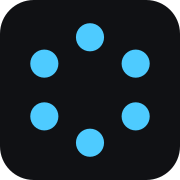
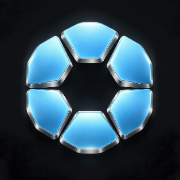
Lead Kithmoot marketing and app identity with sculptural artwork

diff --git a/site/index.html b/site/index.html
@@ -7,7 +7,6 @@
     <meta name="description" content="An open workspace with rooms, threads, private conversations, files, calls and agents, over Nostr and encrypted end to end. No account to register and no company holding the guest list. Your phone and laptop join as one person." />
     <meta name="theme-color" content="#faf8f3" media="(prefers-color-scheme: light)" />
     <meta name="theme-color" content="#101114" media="(prefers-color-scheme: dark)" />
-    <link rel="icon" href="favicon.svg" type="image/svg+xml" />
     <link rel="icon" href="favicon-32.png" type="image/png" sizes="32x32" />
     <link rel="apple-touch-icon" href="apple-touch-icon.png" />
     <link rel="canonical" href="https://kithmoot.forgesworn.dev/" />
@@ -15,14 +14,15 @@
     <meta property="og:title" content="KithMoot: a workspace nobody owns" />
     <meta property="og:description" content="Rooms, threads, private conversations, files, calls and agents for your people, encrypted end to end. Your phone and laptop join as one person. No account needed to visit." />
     <meta property="og:url" content="https://kithmoot.forgesworn.dev/" />
-    <meta property="og:image" content="https://kithmoot.forgesworn.dev/pwa-512x512.png" />
+    <meta property="og:image" content="https://kithmoot.forgesworn.dev/img/kithmoot-artwork.png" />
+    <meta property="og:image:alt" content="KithMoot's six blue pieces forming an assembly of equals." />
     <meta name="twitter:card" content="summary" />
     <link rel="stylesheet" href="style.css" />
   </head>
   <body>
     <a class="skip" href="#main">Skip to content</a>
     <header class="site-header wrap">
-      <a class="brand" href="./" aria-label="KithMoot home"><img src="favicon.svg" width="36" height="36" alt="" />KithMoot</a>
+      <a class="brand" href="./" aria-label="KithMoot home"><img src="pwa-192x192.png" width="36" height="36" alt="" />KithMoot</a>
       <nav aria-label="Main navigation">
         <a href="#what">Features</a>
         <a href="#privacy">Privacy</a>
@@ -41,11 +41,7 @@
           </div>
           <p class="under">Free and open source. No account, nothing to install: an invitation is all anyone needs.<br />Already on Nostr? <a href="j/?signin=nostr">Sign in with Nostr</a> and your rooms follow you.</p>
         </div>
-        <figure class="hero-preview">
-          <div class="preview-label"><span class="status-dot" aria-hidden="true"></span> A room in KithMoot</div>
-          <img src="img/web-conversation.png" width="390" height="880" alt="The web app in a room called The workshop: Rowan asks for a check on the venue line of the budget, Ada's correction sits under it in a thread, marked edited and given a thumbs up, Scribe, labelled as an agent, notes the change for the minutes, and the composer waits beneath." fetchpriority="high" />
-          <figcaption>The web app, with an example conversation.</figcaption>
-        </figure>
+        <div class="hero-art"><picture><source srcset="img/kithmoot-artwork.webp" type="image/webp" /><img src="img/kithmoot-artwork.png" width="1254" height="1254" alt="Six blue pieces forming KithMoot's assembly mark." fetchpriority="high" /></picture></div>
       </section>
 
       <div class="proof-strip wrap" aria-label="About KithMoot">
@@ -55,10 +51,17 @@
       <p class="audience wrap">A team of five and the agents that work for them. A family. A community group. A project and its contributors. An agency and the clients it would rather not put on somebody else's platform. Anyone you would send a link to.</p>
 
       <section id="what" class="section wrap" aria-labelledby="features-title">
+        <div class="product-overview">
         <div class="section-intro">
           <p class="eyebrow">Not a meeting link</p>
           <h2 id="features-title">A workspace you come back to.</h2>
           <p>The conversation, the files and the people stay put between calls. Answer in threads, fix what you said, take a message back, and pick up where you left off from whichever device is in your hand.</p>
+        </div>
+        <figure class="hero-preview">
+          <div class="preview-label"><span class="status-dot" aria-hidden="true"></span> A room in KithMoot</div>
+          <img src="img/web-conversation.png" width="390" height="880" alt="The web app with a threaded example conversation, an agent and a message composer." loading="lazy" />
+          <figcaption>The web app, with an example conversation.</figcaption>
+        </figure>
         </div>
         <div class="feature-grid">
           <article><span class="feature-number" aria-hidden="true">01</span><h3>Rooms that stay open</h3><p>A new room is a group by default. It can sit empty for days and still let the next person in from the link. Come back to the messages, the files and the channels inside it.</p></article>
@@ -118,7 +121,7 @@
       <section class="closing wrap" aria-labelledby="closing-title"><h2 id="closing-title">Bring your people into a workspace.</h2><a class="button primary" href="j/">Start a room <span aria-hidden="true">↗</span></a></section>
     </main>
     <footer class="wrap">
-      <a class="brand" href="./"><img src="favicon.svg" width="30" height="30" alt="" />KithMoot</a>
+      <a class="brand" href="./"><img src="pwa-192x192.png" width="30" height="30" alt="" />KithMoot</a>
       <p>Made by <a href="https://forgesworn.dev/">Forgesworn</a>. Open source under the MIT licence.</p>
       <nav aria-label="Source and support"><a href="https://github.com/forgesworn/kithmoot">Source code</a><a href="https://github.com/forgesworn/kithmoot/issues">Report an issue</a><a href="#privacy">Privacy</a></nav>
     </footer>

diff --git a/site/style.css b/site/style.css
@@ -35,6 +35,11 @@ nav a { display: inline-flex; align-items: center; min-height: 44px; font-size: 
 nav a:hover { text-decoration: underline; }
 nav .nav-open { color: var(--text); font-weight: 700; }
 .hero { display: grid; grid-template-columns: 1.2fr 1fr; align-items: center; gap: clamp(2rem, 6vw, 6rem); padding-block: 4rem; }
+.hero-art { overflow: hidden; border-radius: 24px; background: #101114; }
+.hero-art img { display: block; width: 100%; height: auto; }
+.brand img { border-radius: 22%; }
+.product-overview { display: grid; grid-template-columns: 1fr minmax(240px, 320px); gap: 3rem; align-items: center; margin-bottom: 3rem; }
+@media (max-width: 650px) { .product-overview { grid-template-columns: 1fr; gap: 1.5rem; } }
 .eyebrow { color: var(--accent); font-size: .8rem; font-weight: 750; text-transform: uppercase; letter-spacing: .1em; margin-bottom: 1.3rem; }
 .lead { color: var(--muted); font-size: clamp(1.15rem, 1.6vw, 1.3rem); max-width: 39ch; }
 .actions { display: flex; flex-wrap: wrap; gap: .7rem; margin: 2rem 0 1.3rem; }
@@ -113,3 +118,16 @@ footer nav { gap: 1.2rem; }
 }
 @media (prefers-reduced-motion: reduce) { *, *::before, *::after { scroll-behavior: auto !important; } }
 @media (forced-colors: active) { .button, .hero-preview, .platform { border: 1px solid ButtonText; } }
+
+/* Keep the approved artwork in the first phone viewport, beside the headline
+   and primary action rather than below several paragraphs of introduction. */
+@media (max-width: 650px) {
+  .hero { display: flex; flex-direction: column; gap: 1.2rem; align-items: stretch; }
+  .hero-copy { display: contents; }
+  .hero .eyebrow { order: 0; margin: 0; }
+  .hero h1 { order: 1; margin: 0; }
+  .hero-art { order: 2; width: min(100%, 300px); align-self: center; }
+  .hero .actions { order: 3; margin: 0; }
+  .hero .lead { order: 4; margin: 0; }
+  .hero .under { order: 5; margin: 0; }
+}

diff --git a/app/index.html b/app/index.html
@@ -7,7 +7,6 @@
     <meta name="theme-color" content="#101114" media="(prefers-color-scheme: dark)" />
     <meta name="referrer" content="no-referrer" />
     <meta name="description" content="A workspace nobody owns." />
-    <link rel="icon" href="/favicon.svg" type="image/svg+xml" />
     <link rel="icon" href="/favicon-32.png" type="image/png" sizes="32x32" />
     <link rel="apple-touch-icon" href="/apple-touch-icon.png" />
     <title>KithMoot</title>
@@ -19,7 +18,7 @@
       <button id="updateApp" type="button">Update now</button>
     </aside>
     <header>
-      <h1>KithMoot</h1>
+      <h1 class="app-brand"><img src="/pwa-192x192.png" width="44" height="44" alt="" />KithMoot</h1>
       <p class="tagline">A workspace nobody owns.</p>
     </header>
 
@@ -40,7 +39,7 @@
     <main>
       <noscript><p class="note">KithMoot needs JavaScript to open encrypted rooms. Enable it for this site, then reload.</p></noscript>
       <aside id="workspaceNav" aria-label="Projects and rooms" hidden>
-        <div class="workspaceBrand">KithMoot</div>
+        <div class="workspaceBrand"><img src="/pwa-192x192.png" width="32" height="32" alt="" />KithMoot</div>
         <button id="workspaceSwitch" type="button" aria-haspopup="dialog" aria-controls="roomSwitcher">Find a room <kbd>⌘ / Ctrl K</kbd></button>
         <label class="sr-only" for="workspaceQuery">Filter projects and rooms</label>
         <input id="workspaceQuery" type="search" placeholder="Filter projects and rooms" autocomplete="off" />

diff --git a/app/src/style.css b/app/src/style.css
@@ -152,6 +152,9 @@ h1 {
   margin-bottom: 0;
 }
 
+.app-brand, .workspaceBrand { display: flex; align-items: center; gap: .6rem; }
+.app-brand img, .workspaceBrand img { flex: 0 0 auto; border-radius: 22%; }
+
 h2 {
   font-size: 1rem;
   text-transform: uppercase;

diff --git a/docs/product-goals.md b/docs/product-goals.md
@@ -1,0 +1,163 @@
+# Browser and home messaging goals
+
+Recorded 2026-09-09. These are accepted product goals; all remain open.
+Individual foundations already exist, but none of the complete journeys below
+is declared finished by this document.
+
+## The need
+
+A person wants to use messaging from their phone's browser, keep the supporting
+services and data on a computer at home, and avoid installing a collection of
+messaging apps. They may also need to keep conversations with people already
+using WhatsApp, Signal or Telegram.
+
+KithMoot should serve this need through a usable browser experience and optional
+infrastructure the person owns. A Windows desktop inside a browser must not be
+necessary for native KithMoot conversations. Access to existing networks is a
+separate goal: inviting someone to KithMoot does not satisfy it.
+
+## G1 — Everyday messaging from a phone browser
+
+Complete the ordinary messaging journey without requiring a native KithMoot
+app, a phone number, a paid account or a desktop computer.
+
+Acceptance:
+
+- On physical iPhone and Android devices, open an invitation, establish a
+  recoverable identity, send and receive direct and group messages, share and
+  retrieve encrypted files, and make and answer voice/video calls.
+- Reopen after browser suspension, a device restart and a Wi-Fi/mobile-data
+  change without losing membership or acknowledged messages. Pending and
+  failed sends remain visible and retry without duplicate messages.
+- Recover on a replacement device using an explicitly saved recovery method;
+  explain what cannot be recovered when the person has not saved one.
+- Document any browser permission or home-screen installation requirement per
+  feature. A required external signer app must not be hidden inside a claim
+  that no native app is needed.
+
+## G2 — Notifications while the phone is in a pocket
+
+Deliver useful message and incoming-call alerts when the conversation is not
+open, with explicit consent and control over what a lock screen reveals.
+
+Acceptance:
+
+- Demonstrate delivery on physical iOS and Android devices while locked and
+  with the app closed, recording the browser/OS versions, installation mode,
+  latency and any platform-imposed limits separately.
+- Opening a message alert reaches the correct conversation and catches up;
+  answering a supported call alert joins the intended call. Expired calls
+  become missed calls rather than invitations to a dead session.
+- Exercise denied/revoked permission, expired subscriptions, offline delivery,
+  duplicate alerts, mute settings and notification-host replacement.
+- Keep message contents and room keys out of push infrastructure. Disclose
+  remaining metadata and any browser/OS push-provider dependency. An owned
+  nudger alone is not proof of independence from platform push services.
+
+This extends the existing M5 optional nudger direction. Open-tab notifications
+or a Nostr nudge alone do not close this goal.
+
+## G3 — Durable history and useful search
+
+Let a person find and recover their conversations beyond the current
+30-day/500-message client window, using an optional encrypted archive.
+
+Acceptance:
+
+- Recover and search a conversation older than 90 days containing more than
+  500 messages on a fresh browser, including replies and file references.
+- Verify archive data before use and enforce membership/epoch access rules;
+  a storage host must not receive plaintext messages or room keys.
+- Restore after loss of an archive node from an independently held copy,
+  retrieve referenced file bytes, and identify incomplete history honestly.
+- Provide understandable retention, export, recovery and local cache controls;
+  distinguish local deletion from deletion of copies held by other parties.
+
+This extends M3. Bothy is the preferred optional archive host; a Bothy mailbox
+with bounded retention is not by itself a durable KithMoot archive.
+
+## G4 — An integrated home messaging setup
+
+Offer a documented setup that brings KithMoot, Bothy and Wildbloom storage
+together on hardware the person controls. Include an Umbrel installation path
+alongside a standalone Linux path, with explicit supported hardware and versions.
+
+Acceptance:
+
+- From a clean supported machine, install, pair a phone, create a conversation,
+  store an encrypted attachment on owned storage and retrieve it from another
+  member's device. Show which services and copies are actually in use.
+- Repeat away from home over mobile data, with no manual router changes on the
+  default supported path. Record any public relay, reachability, HTTPS or push
+  dependency rather than describing the deployment as entirely local.
+- Demonstrate restart, upgrade, rollback, backup and restoration on a replacement
+  host. Archive and notification integration must meet G2 and G3, not merely
+  start their processes successfully.
+- Replace each configured service without changing the person's identity or
+  losing access to recoverable conversations. Hosted and independently operated
+  alternatives remain usable; Bothy is never mandatory for joining a room.
+
+Wildbloom supplies encrypted file delivery and owned Blossom storage; Bothy
+supplies the personal shelter and planned archive/nudger integration. This is
+an integration goal, not a claim that the complete appliance exists today.
+
+## G5 — Existing conversations from one browser surface
+
+Enable a person to retain conversations with WhatsApp, Signal and Telegram
+contacts through an optional integration they operate. Those contacts should
+not have to move to KithMoot to satisfy this goal.
+
+Acceptance and feasibility gates, tracked separately for each service:
+
+- Establish the supported integration route, account/number requirements,
+  primary-device obligations and service terms from current primary sources
+  before choosing an implementation. Record restrictions and unsupported
+  features; usernames alone are not evidence of phone independence.
+- Prove bidirectional text and attachment delivery with a real consenting
+  contact, then exercise relinking, restart, offline catch-up and disconnect.
+  Show feature support, including calls, per service instead of implying parity.
+- Keep credentials and sessions on the explicitly chosen host. Explain where
+  messages are decrypted and who can read them: a connector that sees plaintext
+  changes the end-to-end encryption boundary.
+- Make each connector opt-in, isolated and revocable. Its failure must not
+  interrupt native KithMoot rooms. Existing networks remain external services
+  even when their clients or connectors run at home.
+
+A feasibility report is the first deliverable, not completion of this goal.
+If a service prevents the intended journey, retain that service as blocked
+with evidence and an explicit limitation; an invitation link is not a bridge.
+
+## G6 — A clear option for keeping messaging execution at home
+
+Serve people who want the messaging client and persistent decrypted state on
+their home machine, beyond simply avoiding a native phone app.
+
+Acceptance:
+
+- Define and prototype an explicit home-execution mode, then verify what
+  executes and persists on the home host and phone. Screen display and input
+  still expose content to the phone; promise no stronger boundary than measured.
+- Demonstrate mobile text entry, attachments, session locking, reconnection and
+  remote-access authentication. Document call/media support and notification
+  behaviour rather than inheriting claims from native browser mode.
+- Explain the trade-off: normal KithMoot decrypts in the member's browser;
+  home execution makes the selected home host a trusted endpoint. Neither
+  mode silently changes the other's custody model.
+
+Oathrun may optionally host a permissioned assistant participating in a room.
+It is not a prerequisite for messaging, a remote desktop, or an assumed bridge
+to the existing networks. Agent access must remain explicit and revocable.
+
+## Delivery and evidence
+
+Preserve the existing protocol, archive, search and push ordering described in
+the README. G1 spans those releases; G4 integrates them into an owned deployment.
+Investigate G5 and G6 independently so external-service restrictions do not
+hold up native messaging improvements.
+
+For each goal, link implementation work and acceptance evidence here as it
+lands. Evidence must name revisions, devices, service versions, configuration,
+observed results and unresolved limits, using synthetic or consented data with
+no credentials or recovery keys. Automated checks, physical-device acceptance
+and published availability are separate states. Adding this roadmap does not
+change the [current limitations](../README.md#what-does-not-work-yet).

diff --git a/README.md b/README.md
@@ -1,5 +1,7 @@
 # KithMoot
 
+<img src="art/brand/2026-09-09/artwork.png" alt="KithMoot's assembly of six equal pieces" width="240" />
+
 **Want to run your own bot? [Create a bot, connect it and invite your testers](docs/your-own-bot.md).**
 Includes a local-model setup, an existing-agent connection and the privacy boundaries.
 
@@ -62,6 +64,11 @@ and five hundred messages, search beyond what a tab has loaded, and a push
 to a phone in a pocket. Those are next, in that order. `CHANGELOG.md`
 records what has shipped and
 [what does not work yet](#what-does-not-work-yet) is the honest list.
+
+The [browser and home messaging goals](docs/product-goals.md) cover everyday
+use without a native app, pocket notifications, durable history, infrastructure
+you own, and access to existing messaging services. They record intended
+outcomes and acceptance criteria, not additional shipped features.
 
 ## The link, and what a relay sees
 

diff --git a/docs/brand-identity.md b/docs/brand-identity.md
@@ -2,6 +2,19 @@
 
 Generated by brand-forge, 24 August 2026.
 
+## Visual identity — 9 September 2026
+
+The [approved artwork](../art/brand/2026-09-09/artwork.png) is the primary
+identity for marketing, ordinary app icons and the product entrance. Six equal
+blue pieces form an assembly with no dominant centre. The vector companion is
+reserved for monochrome system surfaces.
+
+Run `npm run brand:build` with Playwright Chromium installed to regenerate the
+web/PWA icons and website artwork. The original PNG and exact generation prompt
+are retained in `art/brand/2026-09-09/`. The marketing site uses a WebP derivative
+for supporting browsers and retains the PNG for fallback and social previews.
+Android's corresponding source and build instructions live in `kithmoot-android`.
+
 ## Name
 
 **KithMoot** is a compound of two Old English words already in use across this portfolio.

diff --git a/art/brand/2026-09-09/README.md b/art/brand/2026-09-09/README.md
@@ -1,0 +1,11 @@
+# Kithmoot identity assets
+
+Approved 9 September 2026. `artwork.png` is the primary textured image for
+marketing, ordinary app icons and product entrances. Keep it unchanged as the
+source master. `prompt.txt` records the exact built-in image generation prompt.
+`icon.svg` and `mono.svg` are construction and monochrome system companions;
+they do not replace the textured artwork on ordinary app icons.
+
+The product images are included in the repository. Native Android launchers use
+the original PNG with an adaptive wrapper; themed system icons use a monochrome
+vector. Deployment and store publication remain separate release steps.

diff --git a/CHANGELOG.md b/CHANGELOG.md
@@ -1,5 +1,13 @@
 # Changelog
 
+## 0.5.4 — 9 September 2026
+
+- Use the approved sculptural assembly artwork for web/PWA icons, workspace
+  branding, the marketing hero and social previews. Keep the artwork beside the
+  headline and primary action on phones, with a smaller WebP download.
+- Record the browser and home messaging goals and their acceptance criteria.
+
+
 What shipped, by release. Releases are cut from `main` and published as
 [GitHub releases](https://github.com/forgesworn/kithmoot/releases); the
 Android client has [its own releases](https://github.com/forgesworn/kithmoot-android/releases)
